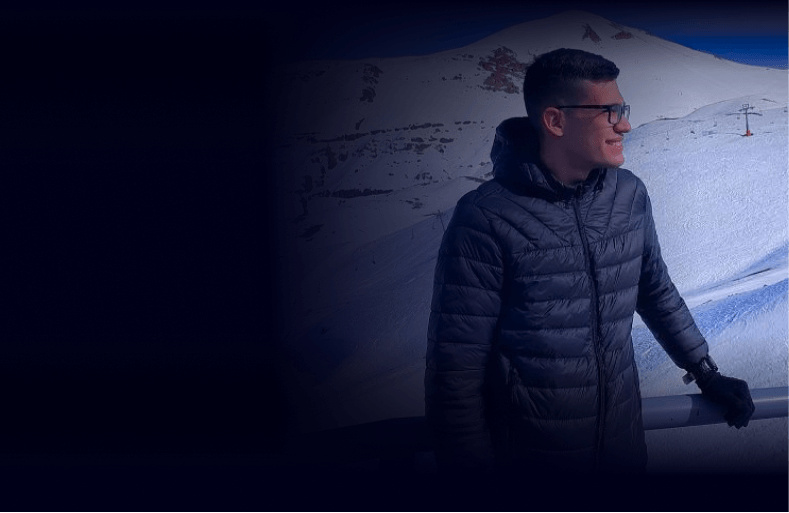
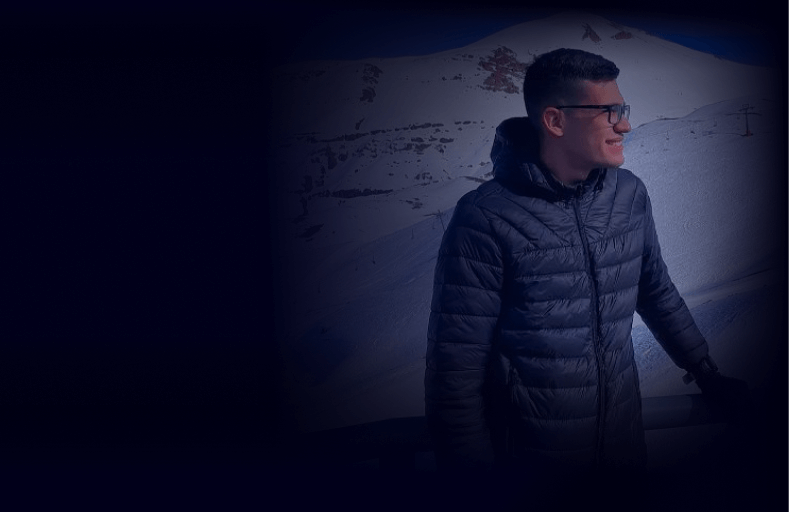
refactor: ensure responsiveness

Changed region(s): [[0.7909, 0.0, 1.0, 0.9045]]

diff --git a/src/App.tsx b/src/App.tsx
@@ -1,5 +1,7 @@
-//FIXME: Refactor this icons
 import { FileDown, Github, Linkedin, Mail } from "lucide-react"
+
+import meImgDesktop from "/me-img-desktop.png"
+import meImgMobile from "/me-img-mobile.png"
 
 import ButtonLink from "./components/button-link"
 import { HeaderMobile } from "./components/header-mobile"
@@ -7,14 +9,13 @@ import { HeaderMobile } from "./components/header-mobile"
 const App = () => {
   return (
     <div className="h-screen bg-primary">
-      <div className="h-80 w-full bg-me-img-mobile bg-cover bg-[50%] bg-no-repeat">
-        <HeaderMobile />
-
-        <div className="mt-2 flex max-w-72 flex-col gap-2 px-4">
-          <h1 className="text-sm font-bold text-secondary">
+      <HeaderMobile />
+      <div className="flex lg:px-5 2xl:px-20">
+        <div className="absolute mt-16 flex max-w-72 flex-col gap-2 px-4 sm:max-w-[480px] sm:px-10 lg:top-40 lg:max-w-[640px] 2xl:max-w-[700px]">
+          <h1 className="text-sm font-bold text-secondary sm:text-3xl">
             Um pouco sobre mim
           </h1>
-          <p className="text-xs text-white">
+          <p className="text-xs text-white sm:text-base lg:text-xl">
             Olá, meu nome é Matheus Farias, sou desenvolvedor full stack,
             totalmente apaixonado por programação e tecnologia. Tenho
             experiência significativa no desenvolvimento full stack, utilizando
@@ -55,6 +56,16 @@ const App = () => {
             </ButtonLink>
           </div>
         </div>
+        <img
+          src={meImgMobile}
+          alt=""
+          className="h-[370px] w-full object-contain md:hidden"
+        />
+        <img
+          src={meImgDesktop}
+          alt=""
+          className="hidden h-[400px] w-full object-contain md:block lg:h-[700px]"
+        />
       </div>
     </div>
   )

diff --git a/tailwind.config.js b/tailwind.config.js
@@ -37,6 +37,7 @@ export const theme = {
         "linear-gradient(90deg, #7900B2 0%, #4D53A1 38%, #338496 61%, #00C8F3 100%)",
       "purple-vertical": "linear-gradient(180deg, #0B002B 0%, #070023 100%)",
       "me-img-mobile": "url('/me-img-mobile.png')",
+      "me-img-desktop": "url('/me-img-desktop.png')",
     },
   },
 }

diff --git a/src/components/header-mobile.tsx b/src/components/header-mobile.tsx
@@ -13,7 +13,7 @@ import {
 
 const HeaderMobile = () => {
   return (
-    <header className="flex w-full items-center gap-6 px-4 py-3">
+    <header className="absolute flex w-full items-center gap-6 px-4 py-3">
       <Sheet>
         <SheetTrigger>
           <AlignJustify size={28} color="#FFFF" />
